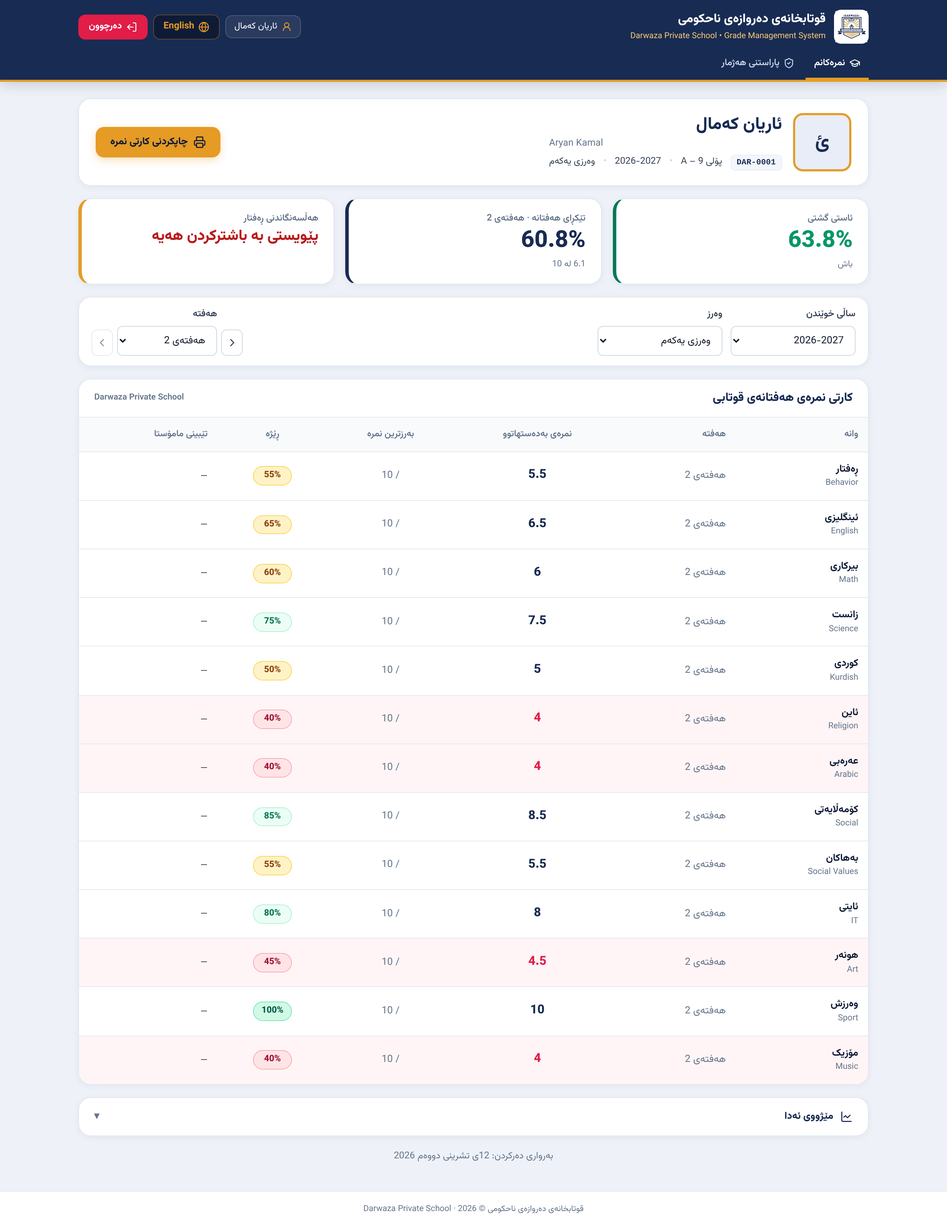
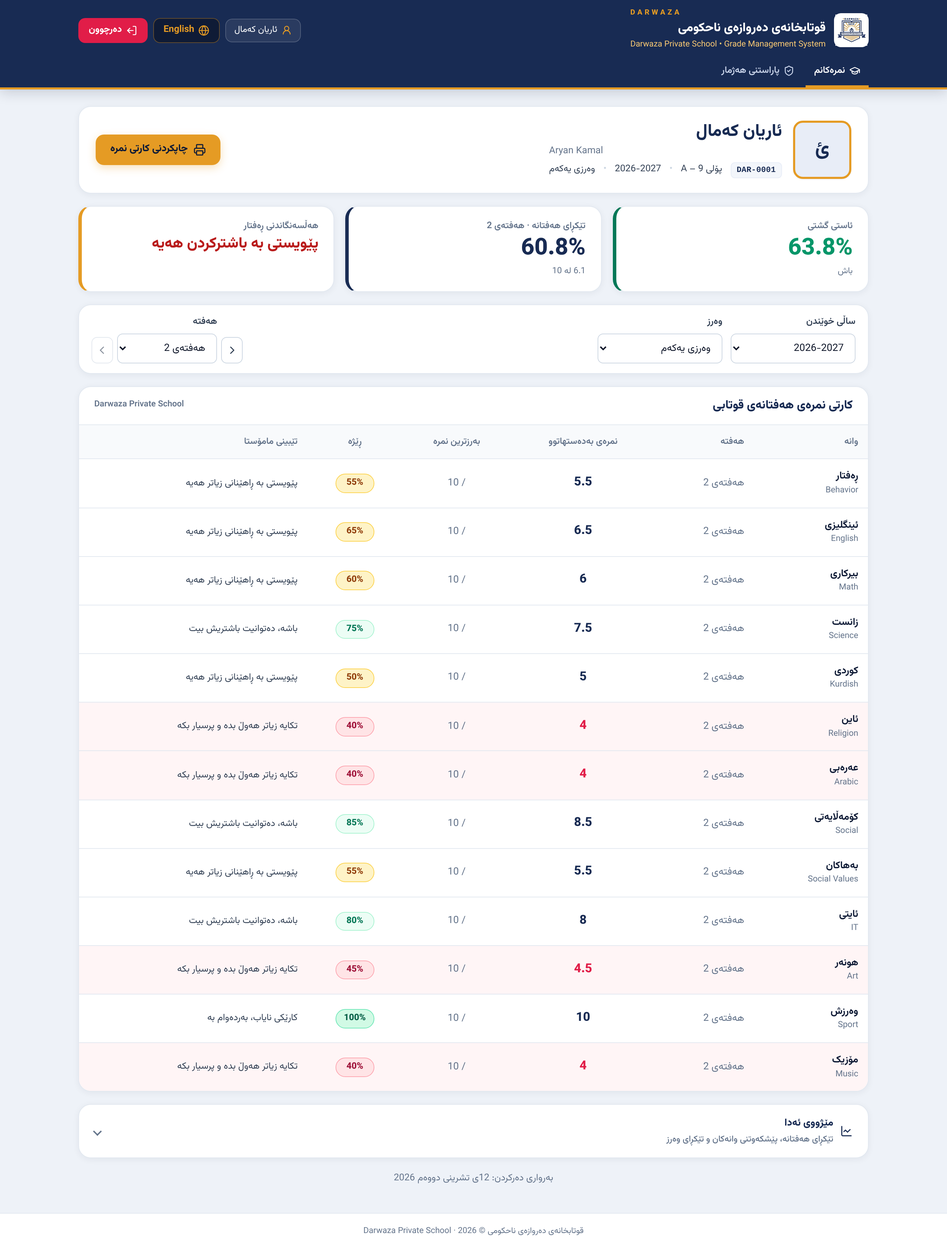
Grade card polish: DARWAZA wordmark, history hint and arrow, demo teacher comments
- Student header shows the DARWAZA wordmark above the school names
- Performance history toggle: one-line description and a proper open/close
  chevron (an old rule drew a second arrow over it in RTL)
- Demo seed adds teacher comments to untouched demo grades (demo databases
  only; deterministic, so re-runs change nothing)

Claude-Session: https://claude.ai/code/session_01Hhh9uGWGk5s7XPpmBzsv4V

diff --git a/client/src/i18n/strings.js b/client/src/i18n/strings.js
@@ -123,7 +123,7 @@ export const strings = {
     n_grades_submitted: 'Grades submitted for approval: {title}', n_grades_returned: 'Grades returned for changes: {title}', n_grades_published: 'New grades published: {title}',
     // account
     accountTitle: 'Account security', language: 'Language',
-    printGradeCard: "Print grade card", overallPerformance: "Overall performance", noGradesShort: "No grades yet", weeklyAverage: "Weekly average", onScale: "{v} / {max} scale", subjectsN: "{n} subjects", behaviorEvaluation: "Behavior evaluation", beh_excellent: "Excellent", beh_very_good: "Very good", beh_good: "Good", beh_average: "Average", beh_needs_improvement: "Needs improvement", notEvaluated: "Not evaluated yet", weekNavigation: "Choose week", previousWeek: "Previous week", nextWeek: "Next week", weeklyGradeCard: "Weekly Student Grade Card", obtainedMarks: "Obtained", maximumMarks: "Maximum", percentage: "Percentage", teacherComments: "Teacher comments", performanceHistory: "Performance history", termAverage: "Term average", weeklyAverageHistory: "Weekly average by week", subjectProgress: "Subject progress by week", change: "Change", weeklyReportTitle: "Weekly Report Card", schoolStamp: "School stamp", schoolCkb: "قوتابخانەی دەروازەی ناحکومی", gradeSystemEn: "Grade Management System", behaviorTitle: "Behavior evaluation", behaviorHelp: "Choose the class, term and week, pick an evaluation for each student, then Save draft or Publish. Students only see published evaluations. Available to the principal and to the class’s homeroom teacher.", behaviorNoClasses: "You can evaluate behavior only for classes where you are the homeroom teacher.", behaviorPublished: "{n} evaluations published", fillEmptyWith: "Fill empty with", publishBehavior: "Publish to students", findStudent: "Find a student",
+    printGradeCard: "Print grade card", overallPerformance: "Overall performance", noGradesShort: "No grades yet", weeklyAverage: "Weekly average", onScale: "{v} / {max} scale", subjectsN: "{n} subjects", behaviorEvaluation: "Behavior evaluation", beh_excellent: "Excellent", beh_very_good: "Very good", beh_good: "Good", beh_average: "Average", beh_needs_improvement: "Needs improvement", notEvaluated: "Not evaluated yet", weekNavigation: "Choose week", previousWeek: "Previous week", nextWeek: "Next week", weeklyGradeCard: "Weekly Student Grade Card", obtainedMarks: "Obtained", maximumMarks: "Maximum", percentage: "Percentage", teacherComments: "Teacher comments", performanceHistory: "Performance history", performanceHistoryHint: "Weekly averages, subject progress and term averages", termAverage: "Term average", weeklyAverageHistory: "Weekly average by week", subjectProgress: "Subject progress by week", change: "Change", weeklyReportTitle: "Weekly Report Card", schoolStamp: "School stamp", schoolCkb: "قوتابخانەی دەروازەی ناحکومی", gradeSystemEn: "Grade Management System", behaviorTitle: "Behavior evaluation", behaviorHelp: "Choose the class, term and week, pick an evaluation for each student, then Save draft or Publish. Students only see published evaluations. Available to the principal and to the class’s homeroom teacher.", behaviorNoClasses: "You can evaluate behavior only for classes where you are the homeroom teacher.", behaviorPublished: "{n} evaluations published", fillEmptyWith: "Fill empty with", publishBehavior: "Publish to students", findStudent: "Find a student",
     more: "More", tabTypes: "Account types", typesTitle: "Account types", typesHelp: "Choose which sections each kind of account can see. Hidden = not in the menu and blocked; View only = can look but not change; Full access = can view and change. Changes apply immediately (affected users sign in again).", newType: "New account type", usersN: "{n} users", builtIn: "Built-in", custom: "Custom", suspended: "Suspended", suspend: "Suspend", activate: "Activate", suspendConfirm: "Suspend “{name}”? Everyone with this account type is signed out and cannot sign in until you activate it again.", deleteTypeConfirm: "Delete the account type “{name}”?", superAdminAll: "Full access to everything. This cannot be changed, so the school can never be locked out.", typeChangeNote: "Saving signs out everyone with this account type so the new access applies immediately.", lvl_hidden: "Hidden", lvl_view: "View only", lvl_manage: "Full access", sec_home: "Home dashboard", sec_home_hint: "School overview and “needs your attention”.", sec_approvals: "Approvals", sec_approvals_hint: "Approve and publish grade sheets sent by teachers.", sec_myclasses: "My classes (grade entry)", sec_myclasses_hint: "Enter grades for the classes and subjects assigned to this person.", sec_grades: "All grade sheets", sec_grades_hint: "See every grade sheet; full access can also edit and correct any sheet.", sec_students: "Students", sec_students_hint: "Student records; full access can add, edit, import and archive.", sec_results: "Results & analysis", sec_results_hint: "School-wide charts, students needing help, class results; full access can also export.", sec_staff: "Staff", sec_staff_hint: "Teachers and staff accounts; full access can add staff and assign classes.", sec_setup: "School setup", sec_setup_hint: "Academic years, terms, classes and subjects.", sec_activity: "Activity history", sec_activity_hint: "Who did what and when (read only).", e_account_type_suspended: "Your account type is suspended. Please contact the school administration.", e_role_locked: "This account type is protected and cannot be changed.", e_cannot_delete_builtin_role: "Built-in account types cannot be deleted. You can suspend it or hide its sections instead.", e_role_has_users: "This account type still has users. Give them another account type first.", e_invalid_level: "That access level is not available for this section.", e_unknown_role: "Unknown account type.", e_student_role_is_managed_by_student_records: "Student accounts are created from the Students section.",
     navHome: "Home", navApprovals: "Approvals", navResults: "Results & analysis", navStaff: "Staff", navSetup: "School setup", navSystem: "System", navGradeSheets: "Grade sheets", belowPass: "below pass mark", greeting: "Welcome, {name}", attentionTitle: "Needs your attention", allGood: "Everything is up to date. Nothing needs your action right now.", att_awaiting_approval: "{n} grade sheets are waiting for your approval", att_awaiting_approval_hint: "Check them and publish so students can see their grades.", att_approved_not_published: "{n} approved sheets are not yet visible to students", att_approved_not_published_hint: "Publish them to make the grades visible.", att_returned: "{n} sheets were sent back to teachers", att_returned_hint: "Teachers need to fix and resubmit them.", att_sheets_missing_grades: "{n} sheets still have students without a grade", att_sheets_missing_grades_hint: "Teachers should finish entering or mark students missing/excused.", att_students_without_class: "{n} active students are not in a class this year", att_students_without_class_hint: "Put them in a class so teachers can grade them.", att_teachers_without_classes: "{n} teachers have no classes assigned", att_teachers_without_classes_hint: "Assign subjects and classes to them.", review: "Review", open_: "Open", fix: "Fix", kpiAverage: "School average", kpiAverageCaption: "Average of all students’ overall results", kpiPassRate: "Passing all subjects", kpiPassRateCaption: "{n} of {total} students", kpiAtRisk: "Students needing help", kpiAtRiskCaption: "Below the pass mark in at least one subject", kpiStudents: "Students", chartSubjects: "How each subject is doing", chartSubjectsHint: "Average result per subject. Red bars are below the pass mark.", chartClasses: "How each class is doing", chartClassesHint: "Average overall result per class. Tap a class to see its students.", chartBands: "Students by performance level", legendBar: "Average", legendTick: "Pass mark", legendBad: "Below pass mark", seeAll: "See all", topStudents: "Top students", atRiskTitle: "Students needing help", atRiskHint: "Students below the pass mark in one or more subjects, the most urgent first.", failedSubjects: "Subjects below pass mark", resultsSub: "Clear answers: how the school is doing, which subjects and classes need attention, and which students need help.", tabOverview: "Overview", tabAtRisk: "Students needing help", tabClasses: "Class results", tabAllGrades: "All grades", tabReportCards: "Report cards", publishedOnly: "Only grades visible to students", includesUnpublished: "Includes grades not yet published.", noData: "No grades entered yet for this selection.", studentsCount: "{n} students", withGrades: "{n} with grades", showMore: "Show more", passRateN: "{n}% pass", approvalsTitle: "Approvals", approvalsHelp: "Teachers send grade sheets here when they finish. Look at the class average and how many students are below the pass mark, then approve & publish so students can see their grades. Open a sheet to check details or send it back.", approvePublish: "Approve & publish", approvePublishSelected: "Approve & publish selected ({n})", approveOnly: "Approve only", selectAll: "Select all", submittedBy: "Sent by", classAverage: "Class average", belowPassCount: "Below pass", approvedPublished: "{n} sheets approved and published", someSkipped: "{n} could not be processed (changed by someone else). Reload and try again.", noApprovals: "No sheets are waiting for approval.", waitingPublish: "Approved, waiting to be published", staffTitle: "Staff", staffHelp: "Teachers, their classes and all staff accounts in one place.", tabTeachers: "Teachers", tabAccounts: "User accounts", tabAssignments: "Who teaches what", setupTitle: "School setup", setupHelp: "Set this up once at the start of each year: the year and its terms, the classes, and the subjects.", tabYears: "Years & terms", tabClassesSetup: "Classes", tabSubjects: "Subjects", systemTitle: "System", systemHelp: "Policies, security and the full history of changes.", tabSettings: "Settings", tabAudit: "Activity history", gradesHelp: "A grade sheet is one test or weekly assessment for one class and subject. Pick a class and subject, then open a sheet or create a new one.", studentsHelp: "Search for any student by name or ID. Open a student to edit details, change class, reset their password or see their report card.", teacherHomeSub: "Your classes this year and anything that needs your action.", myResults: "My class results",
     installApp: 'Install app', installDone: 'Darwaza app installed', iosStep1: 'Tap the Share button in Safari', iosStep2: 'Choose “Add to Home Screen”', iosStep3: 'Tap “Add” — the Darwaza app appears on your home screen.',
@@ -257,7 +257,7 @@ export const strings = {
     notifications: 'ئاگادارکردنەوەکان', noNotifications: 'هیچ ئاگادارکردنەوەیەک نییە', markAllRead: 'هەمووی وەک خوێندراو دیاری بکە',
     n_grades_submitted: 'نمرە نێردرا بۆ پەسەندکردن: {title}', n_grades_returned: 'نمرە گەڕێندرایەوە بۆ گۆڕانکاری: {title}', n_grades_published: 'نمرەی نوێ بڵاوکرایەوە: {title}',
     accountTitle: 'پاراستنی هەژمار', language: 'زمان',
-    printGradeCard: "چاپکردنی کارتی نمرە", overallPerformance: "ئاستی گشتی", noGradesShort: "هێشتا نمرە نییە", weeklyAverage: "تێکڕای هەفتانە", onScale: "{v} لە {max}", subjectsN: "{n} وانە", behaviorEvaluation: "هەڵسەنگاندنی ڕەفتار", beh_excellent: "نایاب", beh_very_good: "زۆر باش", beh_good: "باش", beh_average: "ناوەند", beh_needs_improvement: "پێویستی بە باشترکردن هەیە", notEvaluated: "هێشتا هەڵنەسەنگێندراوە", weekNavigation: "هەڵبژاردنی هەفتە", previousWeek: "هەفتەی پێشوو", nextWeek: "هەفتەی داهاتوو", weeklyGradeCard: "کارتی نمرەی هەفتانەی قوتابی", obtainedMarks: "نمرەی بەدەستهاتوو", maximumMarks: "بەرزترین نمرە", percentage: "ڕێژە", teacherComments: "تێبینی مامۆستا", performanceHistory: "مێژووی ئەدا", termAverage: "تێکڕای وەرز", weeklyAverageHistory: "تێکڕای هەر هەفتەیەک", subjectProgress: "پێشکەوتنی وانەکان بەپێی هەفتە", change: "گۆڕان", weeklyReportTitle: "کارتی نمرەی هەفتانە", schoolStamp: "مۆری قوتابخانە", schoolCkb: "قوتابخانەی دەروازەی ناحکومی", gradeSystemEn: "Grade Management System", behaviorTitle: "هەڵسەنگاندنی ڕەفتار", behaviorHelp: "پۆل، وەرز و هەفتە هەڵبژێرە، بۆ هەر قوتابییەک هەڵسەنگاندنێک دیاری بکە، پاشان پاشەکەوتی ڕەشنووس یان بڵاوکردنەوە. قوتابیان تەنها هەڵسەنگاندنە بڵاوکراوەکان دەبینن. بۆ بەڕێوەبەر و مامۆستای پەروەردەکاری پۆلەکە بەردەستە.", behaviorNoClasses: "تەنها دەتوانیت ڕەفتاری ئەو پۆلانە هەڵبسەنگێنیت کە تێیدا مامۆستای پەروەردەکاریت.", behaviorPublished: "{n} هەڵسەنگاندن بڵاوکرایەوە", fillEmptyWith: "پڕکردنەوەی بەتاڵەکان بە", publishBehavior: "بڵاوکردنەوە بۆ قوتابیان", findStudent: "گەڕان بۆ قوتابی",
+    printGradeCard: "چاپکردنی کارتی نمرە", overallPerformance: "ئاستی گشتی", noGradesShort: "هێشتا نمرە نییە", weeklyAverage: "تێکڕای هەفتانە", onScale: "{v} لە {max}", subjectsN: "{n} وانە", behaviorEvaluation: "هەڵسەنگاندنی ڕەفتار", beh_excellent: "نایاب", beh_very_good: "زۆر باش", beh_good: "باش", beh_average: "ناوەند", beh_needs_improvement: "پێویستی بە باشترکردن هەیە", notEvaluated: "هێشتا هەڵنەسەنگێندراوە", weekNavigation: "هەڵبژاردنی هەفتە", previousWeek: "هەفتەی پێشوو", nextWeek: "هەفتەی داهاتوو", weeklyGradeCard: "کارتی نمرەی هەفتانەی قوتابی", obtainedMarks: "نمرەی بەدەستهاتوو", maximumMarks: "بەرزترین نمرە", percentage: "ڕێژە", teacherComments: "تێبینی مامۆستا", performanceHistory: "مێژووی ئەدا", performanceHistoryHint: "تێکڕای هەفتانە، پێشکەوتنی وانەکان و تێکڕای وەرز", termAverage: "تێکڕای وەرز", weeklyAverageHistory: "تێکڕای هەر هەفتەیەک", subjectProgress: "پێشکەوتنی وانەکان بەپێی هەفتە", change: "گۆڕان", weeklyReportTitle: "کارتی نمرەی هەفتانە", schoolStamp: "مۆری قوتابخانە", schoolCkb: "قوتابخانەی دەروازەی ناحکومی", gradeSystemEn: "Grade Management System", behaviorTitle: "هەڵسەنگاندنی ڕەفتار", behaviorHelp: "پۆل، وەرز و هەفتە هەڵبژێرە، بۆ هەر قوتابییەک هەڵسەنگاندنێک دیاری بکە، پاشان پاشەکەوتی ڕەشنووس یان بڵاوکردنەوە. قوتابیان تەنها هەڵسەنگاندنە بڵاوکراوەکان دەبینن. بۆ بەڕێوەبەر و مامۆستای پەروەردەکاری پۆلەکە بەردەستە.", behaviorNoClasses: "تەنها دەتوانیت ڕەفتاری ئەو پۆلانە هەڵبسەنگێنیت کە تێیدا مامۆستای پەروەردەکاریت.", behaviorPublished: "{n} هەڵسەنگاندن بڵاوکرایەوە", fillEmptyWith: "پڕکردنەوەی بەتاڵەکان بە", publishBehavior: "بڵاوکردنەوە بۆ قوتابیان", findStudent: "گەڕان بۆ قوتابی",
     more: "زیاتر", tabTypes: "جۆرەکانی هەژمار", typesTitle: "جۆرەکانی هەژمار", typesHelp: "دیاری بکە هەر جۆرە هەژمارێک کام بەشانە دەبینێت. شاراوە = لە لیستدا نییە و ڕێگری لێ دەکرێت؛ تەنها بینین = دەبینێت بەڵام ناتوانێت بیگۆڕێت؛ دەسەڵاتی تەواو = دەبینێت و دەگۆڕێت. گۆڕانکارییەکان دەستبەجێ جێبەجێ دەبن (بەکارهێنەرانی پەیوەندیدار دووبارە دەچنە ژوورەوە).", newType: "جۆری هەژماری نوێ", usersN: "{n} بەکارهێنەر", builtIn: "بنەڕەتی", custom: "تایبەت", suspended: "ڕاگیراوە", suspend: "ڕاگرتن", activate: "چالاککردنەوە", suspendConfirm: "«{name}» ڕابگیرێت؟ هەموو ئەوانەی ئەم جۆرە هەژمارەیان هەیە دەردەکرێن و ناتوانن بچنە ژوورەوە تا دووبارە چالاکی دەکەیتەوە.", deleteTypeConfirm: "جۆری هەژماری «{name}» بسڕدرێتەوە؟", superAdminAll: "دەسەڵاتی تەواو بەسەر هەموو شتێکدا. ئەمە ناگۆڕدرێت، بۆ ئەوەی قوتابخانە هەرگیز دەستی لێ نەبڕدرێت.", typeChangeNote: "پاشەکەوتکردن هەموو ئەوانەی ئەم جۆرە هەژمارەیان هەیە دەردەکات بۆ ئەوەی دەسەڵاتە نوێیەکە دەستبەجێ جێبەجێ بێت.", lvl_hidden: "شاراوە", lvl_view: "تەنها بینین", lvl_manage: "دەسەڵاتی تەواو", sec_home: "داشبۆردی سەرەکی", sec_home_hint: "پوختەی قوتابخانە و «پێویستی بە ئاگاداری تۆ هەیە».", sec_approvals: "پەسەندکردنەکان", sec_approvals_hint: "پەسەندکردن و بڵاوکردنەوەی ئەو خشتانەی مامۆستایان دەینێرن.", sec_myclasses: "پۆلەکانم (تۆمارکردنی نمرە)", sec_myclasses_hint: "تۆمارکردنی نمرە بۆ ئەو پۆل و وانانەی بەم کەسە سپێردراون.", sec_grades: "هەموو خشتەکانی نمرە", sec_grades_hint: "بینینی هەموو خشتەکان؛ دەسەڵاتی تەواو دەتوانێت هەر خشتەیەک دەستکاری و ڕاست بکاتەوە.", sec_students: "قوتابیان", sec_students_hint: "زانیاری قوتابیان؛ دەسەڵاتی تەواو دەتوانێت زیاد، دەستکاری، هاوردە و ئەرشیف بکات.", sec_results: "ئەنجام و شیکردنەوە", sec_results_hint: "هێڵکاری گشتی، قوتابیانی پێویست بە یارمەتی، ئەنجامی پۆلەکان؛ دەسەڵاتی تەواو دەتوانێت دەریش بهێنێت.", sec_staff: "ستاف", sec_staff_hint: "مامۆستایان و هەژماری ستاف؛ دەسەڵاتی تەواو دەتوانێت ستاف زیاد بکات و پۆل بسپێرێت.", sec_setup: "ڕێکخستنی قوتابخانە", sec_setup_hint: "ساڵ، وەرز، پۆل و وانەکان.", sec_activity: "مێژووی چالاکییەکان", sec_activity_hint: "کێ چی کرد و کەی (تەنها خوێندنەوە).", e_account_type_suspended: "جۆری هەژمارەکەت ڕاگیراوە. تکایە پەیوەندی بە بەڕێوەبەرایەتی قوتابخانەوە بکە.", e_role_locked: "ئەم جۆرە هەژمارە پارێزراوە و ناگۆڕدرێت.", e_cannot_delete_builtin_role: "جۆرە بنەڕەتییەکان ناسڕدرێنەوە. دەتوانیت ڕایبگریت یان بەشەکانی بشاریتەوە.", e_role_has_users: "ئەم جۆرە هەژمارە هێشتا بەکارهێنەری هەیە. سەرەتا جۆرێکی تریان پێبدە.", e_invalid_level: "ئەم ئاستی دەسەڵاتە بۆ ئەم بەشە بەردەست نییە.", e_unknown_role: "جۆری هەژماری نەناسراو.", e_student_role_is_managed_by_student_records: "هەژماری قوتابی لە بەشی قوتابیانەوە دروست دەکرێت.",
     navHome: "سەرەکی", navApprovals: "پەسەندکردنەکان", navResults: "ئەنجام و شیکردنەوە", navStaff: "ستاف", navSetup: "ڕێکخستنی قوتابخانە", navSystem: "سیستەم", navGradeSheets: "خشتەکانی نمرە", belowPass: "لە خوار نمرەی دەرچوون", greeting: "بەخێربێیت، {name}", attentionTitle: "پێویستی بە ئاگاداری تۆ هەیە", allGood: "هەموو شتێک نوێیە. ئێستا هیچ کارێک چاوەڕێی تۆ نییە.", att_awaiting_approval: "{n} خشتەی نمرە چاوەڕێی پەسەندکردنی تۆن", att_awaiting_approval_hint: "بیانپشکنە و بڵاویان بکەرەوە تا قوتابیان نمرەکانیان ببینن.", att_approved_not_published: "{n} خشتەی پەسەندکراو هێشتا بۆ قوتابیان دیار نین", att_approved_not_published_hint: "بڵاویان بکەرەوە تا نمرەکان دیار بن.", att_returned: "{n} خشتە گەڕێندرانەوە بۆ مامۆستایان", att_returned_hint: "مامۆستایان دەبێت چاکیان بکەن و دووبارە بینێرن.", att_sheets_missing_grades: "{n} خشتە هێشتا قوتابی بێ نمرەیان تێدایە", att_sheets_missing_grades_hint: "مامۆستایان دەبێت تۆمارکردن تەواو بکەن یان قوتابی وەک ئامادە نەبوو/بەخشراو دیاری بکەن.", att_students_without_class: "{n} قوتابیی چالاک ئەمساڵ لە هیچ پۆلێکدا نین", att_students_without_class_hint: "بیانخەرە پۆلێکەوە تا مامۆستایان نمرەیان پێبدەن.", att_teachers_without_classes: "{n} مامۆستا هیچ پۆلێکیان پێ نەسپێردراوە", att_teachers_without_classes_hint: "وانە و پۆلیان پێ بسپێرە.", review: "پشکنین", open_: "کردنەوە", fix: "چاککردن", kpiAverage: "تێکڕای قوتابخانە", kpiAverageCaption: "تێکڕای ئەنجامی گشتی هەموو قوتابیان", kpiPassRate: "دەرچوو لە هەموو وانەکان", kpiPassRateCaption: "{n} لە {total} قوتابی", kpiAtRisk: "قوتابیانی پێویست بە یارمەتی", kpiAtRiskCaption: "لە خوار نمرەی دەرچوون لە لانیکەم یەک وانەدا", kpiStudents: "قوتابیان", chartSubjects: "دۆخی هەر وانەیەک", chartSubjectsHint: "تێکڕای ئەنجامی هەر وانەیەک. هێڵە سوورەکان لە خوار نمرەی دەرچوونن.", chartClasses: "دۆخی هەر پۆلێک", chartClassesHint: "تێکڕای ئەنجامی گشتی هەر پۆلێک. پۆلێک دابگرە بۆ بینینی قوتابیەکانی.", chartBands: "قوتابیان بەپێی ئاستی ئەدا", legendBar: "تێکڕا", legendTick: "نمرەی دەرچوون", legendBad: "لە خوار نمرەی دەرچوون", seeAll: "بینینی هەموو", topStudents: "باشترین قوتابیان", atRiskTitle: "قوتابیانی پێویست بە یارمەتی", atRiskHint: "ئەو قوتابیانەی لە یەک وانە یان زیاتر لە خوار نمرەی دەرچوونن، بەپەلەترینیان یەکەم.", failedSubjects: "وانەکانی خوار نمرەی دەرچوون", resultsSub: "وەڵامی ڕوون: دۆخی قوتابخانە، کام وانە و پۆل پێویستی بە ئاگاداری هەیە، و کام قوتابی پێویستی بە یارمەتی هەیە.", tabOverview: "پوختە", tabAtRisk: "قوتابیانی پێویست بە یارمەتی", tabClasses: "ئەنجامی پۆلەکان", tabAllGrades: "هەموو نمرەکان", tabReportCards: "کارتی نمرە", publishedOnly: "تەنها ئەو نمرانەی بۆ قوتابیان دیارن", includesUnpublished: "ئەو نمرانەش لەخۆدەگرێت کە هێشتا بڵاو نەکراونەتەوە.", noData: "هێشتا هیچ نمرەیەک بۆ ئەم هەڵبژاردنە تۆمار نەکراوە.", studentsCount: "{n} قوتابی", withGrades: "{n} نمرەیان هەیە", showMore: "زیاتر پیشان بدە", passRateN: "{n}% دەرچوو", approvalsTitle: "پەسەندکردنەکان", approvalsHelp: "مامۆستایان کاتێک تەواو دەکەن خشتەکانی نمرە دەنێرنە ئێرە. تێکڕای پۆلەکە و ژمارەی قوتابیانی خوار نمرەی دەرچوون ببینە، پاشان پەسەندی بکە و بڵاوی بکەرەوە تا قوتابیان نمرەکانیان ببینن. بۆ وردەکاری یان گەڕاندنەوە، خشتەکە بکەرەوە.", approvePublish: "پەسەندکردن و بڵاوکردنەوە", approvePublishSelected: "پەسەندکردن و بڵاوکردنەوەی هەڵبژێردراوەکان ({n})", approveOnly: "تەنها پەسەندکردن", selectAll: "هەڵبژاردنی هەموو", submittedBy: "نێردراوە لەلایەن", classAverage: "تێکڕای پۆل", belowPassCount: "خوار دەرچوون", approvedPublished: "{n} خشتە پەسەندکران و بڵاوکرانەوە", someSkipped: "{n} خشتە نەکرا (کەسێکی تر گۆڕیویەتی). نوێی بکەرەوە و دووبارە هەوڵبدەرەوە.", noApprovals: "هیچ خشتەیەک چاوەڕێی پەسەندکردن نییە.", waitingPublish: "پەسەندکراوە، چاوەڕێی بڵاوکردنەوەیە", staffTitle: "ستاف", staffHelp: "مامۆستایان، پۆلەکانیان و هەموو هەژمارەکانی ستاف لە یەک شوێندا.", tabTeachers: "مامۆستایان", tabAccounts: "هەژمارەکان", tabAssignments: "کێ چی دەڵێتەوە", setupTitle: "ڕێکخستنی قوتابخانە", setupHelp: "لە سەرەتای هەر ساڵێکدا یەک جار ئەمە ڕێکبخە: ساڵ و وەرزەکانی، پۆلەکان و وانەکان.", tabYears: "ساڵ و وەرزەکان", tabClassesSetup: "پۆلەکان", tabSubjects: "وانەکان", systemTitle: "سیستەم", systemHelp: "سیاسەتەکان، ئاسایش و مێژووی تەواوی گۆڕانکارییەکان.", tabSettings: "ڕێکخستنەکان", tabAudit: "مێژووی چالاکییەکان", gradesHelp: "خشتەی نمرە یەک تاقیکردنەوە یان هەڵسەنگاندنی هەفتانەیە بۆ یەک پۆل و یەک وانە. پۆل و وانە هەڵبژێرە، پاشان خشتەیەک بکەرەوە یان دانەیەکی نوێ دروست بکە.", studentsHelp: "بە ناو یان ژمارە بەدوای هەر قوتابییەکدا بگەڕێ. قوتابییەک بکەرەوە بۆ دەستکاری زانیاری، گۆڕینی پۆل، نوێکردنەوەی وشەی نهێنی یان بینینی کارتی نمرە.", teacherHomeSub: "پۆلەکانت بۆ ئەمساڵ و هەر شتێک کە پێویستی بە کاری تۆ هەیە.", myResults: "ئەنجامی پۆلەکانم",
     installApp: 'دامەزراندنی ئەپ', installDone: 'ئەپی دەروازە دامەزرا', iosStep1: 'لە Safari دوگمەی «هاوبەشکردن» (Share) دابگرە', iosStep2: '«زیادکردن بۆ شاشەی سەرەکی» (Add to Home Screen) هەڵبژێرە', iosStep3: '«زیادکردن» (Add) دابگرە — ئەپی دەروازە لەسەر شاشەکەت دەردەکەوێت.',

diff --git a/server/scripts/seed-demo.js b/server/scripts/seed-demo.js
@@ -20,6 +20,20 @@ const LAST_EN = ['Kamal', 'Ahmed', 'Rebwar', 'Saman', 'Omar', 'Hasan', 'Mohammed
 
 /** Demo-only additions that may be missing from older demo databases (safe to run repeatedly). */
 async function topUpDemo() {
+  // Demo teacher comments on untouched demo grades (version 1, seeded or entered by a demo teacher; demo databases only). Deterministic, so re-runs change nothing.
+  const c = await db.query(
+    `UPDATE grade_records g SET comment = CASE
+        WHEN g.score / a.max_score >= 0.9 THEN 'کارێکی نایاب، بەردەوام بە'
+        WHEN g.score / a.max_score >= 0.7 THEN 'باشە، دەتوانیت باشتریش بیت'
+        WHEN g.score / a.max_score >= 0.5 THEN 'پێویستی بە ڕاهێنانی زیاتر هەیە'
+        ELSE 'تکایە زیاتر هەوڵ بدە و پرسیار بکە' END
+       FROM assessments a
+      WHERE a.id = g.assessment_id
+        AND EXISTS (SELECT 1 FROM users WHERE username = 'demo.admin')
+        AND (g.entered_by IS NULL OR g.entered_by IN (SELECT id FROM users WHERE username LIKE 'demo.teacher%'))
+        AND g.comment IS NULL AND g.version = 1 AND g.status = 'graded'
+        AND (g.score / a.max_score < 0.5 OR g.id % 3 <> 0)`);
+  if (c.rowCount) console.log(`Demo teacher comments added: ${c.rowCount}.`);
   const has = (await db.query('SELECT count(*)::int n FROM behavior_evaluations')).rows[0].n;
   if (has > 0) return;
   const ratings = ['excellent', 'very_good', 'very_good', 'good', 'good', 'average', 'needs_improvement'];

diff --git a/client/src/styles.css b/client/src/styles.css
@@ -566,9 +566,12 @@ tr.wk-low { background: #fff5f6; }
 
 .wk-history summary { list-style: none; cursor: pointer; display: flex; align-items: center; gap: 10px; padding: 16px 22px; font-weight: 800; color: var(--navy-800); }
 .wk-history summary::-webkit-details-marker { display: none; }
-.wk-history summary::after { content: '▾'; margin-inline-start: auto; color: var(--ink-3); }
+.wk-history summary::after { content: ''; margin-inline-start: auto; inline-size: 9px; block-size: 9px; border-right: 2px solid var(--ink-3); border-bottom: 2px solid var(--ink-3); transform: rotate(45deg); transition: transform .2s; }
+.wk-history[open] summary::after { transform: rotate(-135deg); }
+.wk-history summary:hover { background: var(--surface-2, #f6f8fc); }
+.wk-history-hint { display: block; font-weight: 500; font-size: 0.78rem; color: var(--ink-3); margin-block-start: 2px; }
+.st-brand .st-word { font-size: 0.66rem; letter-spacing: 0.32em; font-weight: 800; color: var(--gold-500); line-height: 1; margin-block-end: 3px; }
 .wk-history[open] summary { border-block-end: 1px solid var(--line); }
-.wk-history[open] summary::after { content: '▴'; }
 .wk-history-body { padding: 16px 22px 22px; }
 .wk-history h3 { font-size: 0.95rem; margin-block-end: 8px; }
 .wk-chips { display: flex; flex-wrap: wrap; gap: 8px; margin-block-end: 16px; }

diff --git a/client/src/pages/WeeklyCard.jsx b/client/src/pages/WeeklyCard.jsx
@@ -130,7 +130,7 @@ export default function WeeklyCard({ studentId, printBase = '/print/report' }) {
       {/* Performance history */}
       {d.history.length > 0 && (
         <details className="card wk-history">
-          <summary><LineChart size={18} aria-hidden="true" /><span>{t('performanceHistory')}</span></summary>
+          <summary><LineChart size={18} aria-hidden="true" /><span>{t('performanceHistory')}<small className="wk-history-hint">{t('performanceHistoryHint')}</small></span></summary>
           <div className="wk-history-body">
             <div className="wk-chips">
               {d.term_averages.map((ta) => <span key={ta.term_id} className="wk-chip">{t('termAverage')} · {pick(ta)}: <strong>{fmtPct(ta.average_percent)}</strong></span>)}

diff --git a/client/src/components/StudentShell.jsx b/client/src/components/StudentShell.jsx
@@ -24,6 +24,7 @@ export default function StudentShell() {
           <div className="st-brand">
             <span className="logo-plate"><Logo size={46} /></span>
             <div>
+              <span className="st-word" dir="ltr">DARWAZA</span>
               <strong>{t('schoolCkb')}</strong>
               <span dir="ltr">Darwaza Private School • {t('gradeSystemEn')}</span>
             </div>
